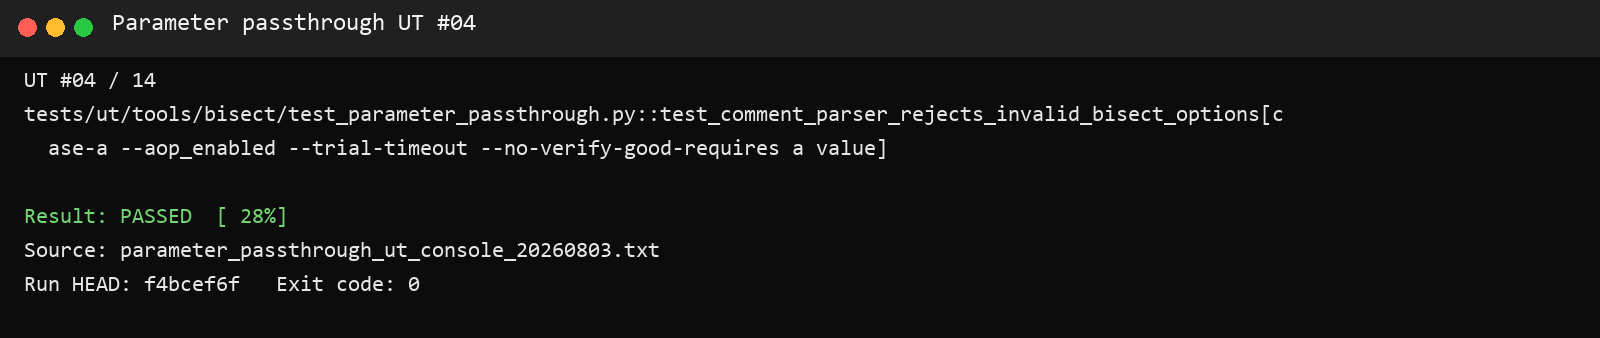
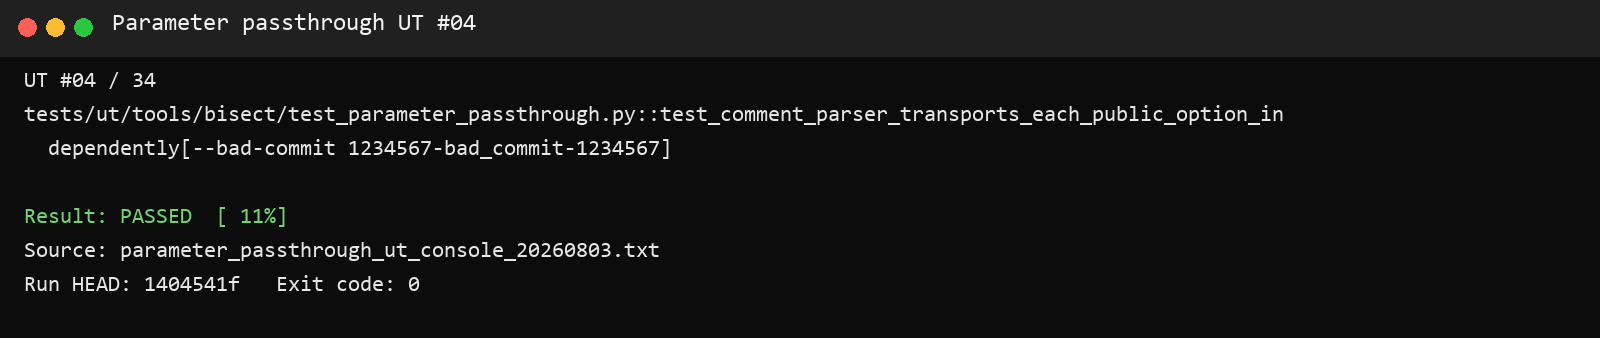
docs(bisect): publish comprehensive passthrough UT report
Document all 34 focused cases with a coverage matrix, production-code execution boundaries, detailed test implementations and assertions, per-case screenshots, summary evidence, and the reproducible console log.

diff --git a/tools/bisect/PARAMETER_PASSTHROUGH_UT_REPORT_zh.md b/tools/bisect/PARAMETER_PASSTHROUGH_UT_REPORT_zh.md
@@ -44,6 +44,45 @@ PR 评论 /nightly 或 /weekly
 3. **最终 CLI 层**：调用真实 `_parse_args`，确认 AOP 参数能转换为 `auto_bisect` 的最终字段和值。
 4. **AOP Shell 执行层**：使用 Git for Windows Bash 真实运行 `aop_process.sh`，以 fake Python 捕获最终 argv，验证参数边界和值没有丢失。
 
+### 2.1 覆盖矩阵
+
+| 功能点 | 默认值 | 独立正向值 | 完整组合 | 非法/边界 | workflow 映射 | Shell argv | argparse |
+|---|---:|---:|---:|---:|---:|---:|---:|
+| `good_commit` | ✓ 空字符串 | ✓ 大写 7 位 SHA | ✓ | ✓ 缺值、非十六进制 | ✓ | ✓ | ✓ |
+| `bad_commit` | ✓ `HEAD` | ✓ 7 位 SHA | ✓ | ✓ 缺值、非 HEAD/SHA | ✓ | ✓ | ✓ |
+| `fail_confirm_retries` | ✓ 空字符串 | ✓ 下边界 0 | ✓ | ✓ 缺值、负数、小数 | ✓ | ✓ | ✓ int |
+| `trial_timeout` | ✓ 空字符串 | ✓ 小数 0.5 | ✓ | ✓ flag 截断、0、负数 | ✓ | ✓ | ✓ number |
+| `barrier_timeout` | ✓ 空字符串 | ✓ 整数 3600 | ✓ | ✓ 缺值、0 | ✓ | ✓ | ✓ number |
+| `no_verify_good` | ✓ false | ✓ true | ✓ | ✓ 作为 pending 截断边界 | ✓ | ✓ | ✓ bool |
+| `no_verify_bad` | ✓ false | ✓ true | ✓ | — flag 无值域 | ✓ | ✓ | ✓ bool |
+| `force_initial_build` | ✓ false | ✓ true | ✓ | — flag 无值域 | ✓ | ✓ | ✓ bool |
+| 普通 nightly/weekly 参数 | 不适用 | ✓ case/branch/a3-560t/glob | ✓ 与二分参数交错 | ✓ AOP 前无 case、错误顺序、未知 option | 不受影响 | 不适用 | 不适用 |
+| 系统管理参数 | 不由用户设置 | 不允许 | 不适用 | ✓ 三项均拒绝 | ✓ 不暴露 | ✓ 系统固定值保留 | ✓ 内部可解析 |
+
+`—` 表示该项没有独立值域：Boolean flag 的合法状态只有“不出现=false”和“出现=true”，两种状态已分别由默认与独立正向用例覆盖。
+
+### 2.2 测试真实性与防止假通过
+
+- 评论解析测试执行从生产 YAML 动态提取的 Bash，不复制解析算法。
+- 正向测试断言完整 JSON key 集合、具体值和 Boolean 类型，不能只凭返回码 0 通过。
+- 反向测试同时断言非零返回码和特定错误信息，不能因无关异常而假通过。
+- 静态协议测试对每个参数、每个工作流入口循环断言，并单独禁止旧的 8 个 dispatch 字段。
+- Shell 测试运行生产脚本；fake Python 只记录 argv，不参与组装或转换。
+- argparse 测试调用生产 `_parse_args`，验证数值和 Boolean 的最终 Python 类型。
+
+### 2.3 “真实执行”与“静态检查”的边界
+
+| 链路段 | 本地 UT 方法 | 是否执行生产代码 |
+|---|---|---:|
+| `/nightly`/`/weekly` 前缀之后的 token 解析 | 提取 workflow 内 Bash 并由 Git Bash 执行 | 是 |
+| `bisect_args_json` 生成 | 同一生产 Bash 生成并用 `json.loads` 校验 | 是 |
+| GitHub workflow_dispatch 网络调用 | 检查真实 YAML 的 `-f bisect_args_json` 契约 | 否，静态检查 |
+| schedule 的 `fromJSON` 到 reusable inputs | 遍历 6 个真实 schedule 文件检查映射 | 否，静态检查 |
+| single/multi-node/LWS 字段存在性 | 遍历真实 workflow、模板和 Shell | 否，静态检查 |
+| `aop_process.sh` 到 Python argv | Bash 真实执行生产 Shell，捕获完整 argv | 是 |
+| `auto_bisect` CLI 类型转换 | 调用生产 `_parse_args` | 是 |
+| GitHub webhook、Pod、NPU case、真实二分构建 | 不属于本地 UT | 否，需 CI/E2E |
+
 ## 3. 执行环境与命令
 
 | 项目 | 值 |
@@ -51,7 +90,7 @@ PR 评论 /nightly 或 /weekly
 | 执行日期 | 2026-08-03（Asia/Shanghai） |
 | 仓库 | `C:\project\tmp\chendao\vllm-ascend` |
 | 分支 | `codex/split-good-table-frequency_ut` |
-| 被测 HEAD | `f4bcef6f` |
+| 被测 HEAD | `1404541f` |
 | 系统 | Windows 11（10.0.26200） |
 | Python | 3.12.13 |
 | pytest | 9.1.1 |
@@ -70,50 +109,70 @@ python -m pytest -vv -p no:cacheprovider `
 执行结果：
 
 ```text
-collected 14 items
-14 passed in 8.50s
+collected 34 items
+34 passed in 19.48s
 ```
 
 原始控制台日志保存在
-[`test_evidence/parameter_passthrough_ut_console_20260803.txt`](./test_evidence/parameter_passthrough_ut_console_20260803.txt)。两张截图均由本次 pytest 原始 stdout 同源生成：第一张保留执行时间、仓库、分支、HEAD、命令、退出码和汇总，第二张展示 14 个 pytest 展开项的逐项结果；截图内容可由原始日志复核。
+[`test_evidence/parameter_passthrough_ut_console_20260803.txt`](./test_evidence/parameter_passthrough_ut_console_20260803.txt)。汇总截图和 34 张逐项截图均由本次 pytest 原始 stdout 同源生成；截图内容可由原始日志复核。
 
 ### 3.1 实际执行步骤
 
-1. 进入 `_ut` 分支仓库并确认被测 HEAD 为 `f4bcef6f`。
+1. 进入 `_ut` 分支仓库并确认被测 HEAD 为 `1404541f`。
 2. 使用 `--confcutdir=tests/ut/tools/bisect` 隔离与本专项无关的顶层 NPU/Torch fixture。
 3. 显式选择 `test_parameter_passthrough.py`，只运行评论解析、默认值、异常校验和跨层协议检查。
 4. 单独选择 `test_parse_args_maps_extended_aop_parameters`，验证透传结束后的真实 argparse 结果。
 5. 单独选择 `test_aop_shell_forwards_complete_bisect_contract`，通过 Git Bash 执行生产 `aop_process.sh`；脚本内部调用 fake Python，记录并断言最终 argv。
-6. pytest 收集 14 个参数化展开项，逐项执行，最终返回码为 0。
+6. pytest 收集 34 个参数化展开项，逐项执行，最终返回码为 0。
 
 执行命令、Python/pytest版本、收集数量和最终结果截图：
 
 ![参数透传专项UT执行命令与汇总](./test_evidence/parameter_passthrough_ut_execution_20260803.png)
 
-14个用例逐项执行结果截图：
+34 个用例逐项执行结果汇总截图：
 
 ![参数透传专项UT逐项结果](./test_evidence/parameter_passthrough_ut_cases_20260803.png)
 
 ## 4. 逐项过程与结果
 
-以下 14 项是 pytest 参数化展开后的实际执行项。每一项均内嵌本次执行产生的独立截图；截图中的 pytest node ID、进度、被测 HEAD 和退出码可与原始控制台日志交叉核对。
+以下 34 项是 pytest 参数化展开后的实际执行项。每一项均内嵌本次执行产生的独立截图；截图中的 pytest node ID、进度、被测 HEAD 和退出码可与原始控制台日志交叉核对。
 
 | # | 测试项 | 测试过程 | 预期结果 | 实际结果与独立截图 |
 |---:|---|---|---|---|
-| 1 | 完整评论参数生成 JSON | 执行生产评论解析脚本，输入 good/bad、重试、两个超时、两个端点开关和首次构建开关 | 8 个字段全部进入 `bisect_args_json`，字符串和 Boolean 类型正确 | PASS<br><img src="./test_evidence/parameter_passthrough_ut_case_01_20260803.png" alt="UT 01 执行截图" width="520"> |
-| 2 | 无可选参数保持默认值 | 输入 `case-a --aop_enabled` | good 为空、bad 为 `HEAD`、可选数字为空、三个 flag 为 `false` | PASS<br><img src="./test_evidence/parameter_passthrough_ut_case_02_20260803.png" alt="UT 02 执行截图" width="520"> |
-| 3 | 二分参数位于 AOP 开关前 | 输入 `case-a --trial-timeout 1 --aop_enabled` | 拒绝并报告参数必须位于 `--aop_enabled` 后 | PASS<br><img src="./test_evidence/parameter_passthrough_ut_case_03_20260803.png" alt="UT 03 执行截图" width="520"> |
-| 4 | 值参数缺值 | 输入 `case-a --aop_enabled --trial-timeout --no-verify-good` | 拒绝并报告 `--trial-timeout requires a value` | PASS<br><img src="./test_evidence/parameter_passthrough_ut_case_04_20260803.png" alt="UT 04 执行截图" width="520"> |
-| 5 | good commit 格式非法 | 输入 `--good-commit xyz` | 拒绝非 7～40 位十六进制 SHA | PASS<br><img src="./test_evidence/parameter_passthrough_ut_case_05_20260803.png" alt="UT 05 执行截图" width="520"> |
-| 6 | retry 为负数 | 输入 `--fail-confirm-retries -1` | 拒绝非负整数以外的值 | PASS<br><img src="./test_evidence/parameter_passthrough_ut_case_06_20260803.png" alt="UT 06 执行截图" width="520"> |
-| 7 | timeout 为零 | 输入 `--trial-timeout 0` | 拒绝非正数 | PASS<br><img src="./test_evidence/parameter_passthrough_ut_case_07_20260803.png" alt="UT 07 执行截图" width="520"> |
-| 8 | 用户传入 `--native-check` | 在评论命令中传内部参数 | 按未知参数拒绝，不进入 JSON | PASS<br><img src="./test_evidence/parameter_passthrough_ut_case_08_20260803.png" alt="UT 08 执行截图" width="520"> |
-| 9 | 用户传入 `--no-assume-built-head` | 在评论命令中传内部参数 | 按未知参数拒绝，不进入 JSON | PASS<br><img src="./test_evidence/parameter_passthrough_ut_case_09_20260803.png" alt="UT 09 执行截图" width="520"> |
-| 10 | 用户传入 `--config-base-path` | 在评论命令中传内部参数 | 按未知参数拒绝，不进入 JSON | PASS<br><img src="./test_evidence/parameter_passthrough_ut_case_10_20260803.png" alt="UT 10 执行截图" width="520"> |
-| 11 | 跨传输层字段契约 | 对 6 个 schedule、5 个 reusable workflow、LWS、Shell 和 argparse 逐字段扫描 | 8 个用户参数在每层均存在，JSON/input/env/CLI 命名映射一致 | PASS<br><img src="./test_evidence/parameter_passthrough_ut_case_11_20260803.png" alt="UT 11 执行截图" width="520"> |
-| 12 | 系统管理参数隔离 | 检查评论协议、JSON、Workflow 和 AOP Shell | 三个内部参数不向用户暴露；native 策略固定，配置路径只由系统传递 | PASS<br><img src="./test_evidence/parameter_passthrough_ut_case_12_20260803.png" alt="UT 12 执行截图" width="520"> |
-| 13 | `auto_bisect` 最终解析 | 直接向真实 `_parse_args` 传递完整 AOP CLI 参数 | 最终 Namespace 中所有参数的值和类型正确 | PASS<br><img src="./test_evidence/parameter_passthrough_ut_case_13_20260803.png" alt="UT 13 执行截图" width="520"> |
-| 14 | AOP Shell 完整透传 | 使用 Git Bash 真实运行 `aop_process.sh`，fake Python 捕获 update-table 与 auto-bisect argv | 用户8参数、good/env table、内部配置路径和固定 native 策略无丢失、无拆词 | PASS<br><img src="./test_evidence/parameter_passthrough_ut_case_14_20260803.png" alt="UT 14 执行截图" width="520"> |
+| 1 | 完整 8 参数生成 JSON | 同时输入全部公开参数 | JSON 字段、值和类型完全相等 | PASS<br><img src="./test_evidence/parameter_passthrough_ut_case_01_20260803.png" alt="UT 01" width="520"> |
+| 2 | 默认值 | 仅输入 `case-a --aop_enabled` | 8 字段完整且保持约定默认值 | PASS<br><img src="./test_evidence/parameter_passthrough_ut_case_02_20260803.png" alt="UT 02" width="520"> |
+| 3 | `good_commit` 独立透传 | 输入大写 7 位 SHA `ABCDEF1` | 保持原值进入 JSON | PASS<br><img src="./test_evidence/parameter_passthrough_ut_case_03_20260803.png" alt="UT 03" width="520"> |
+| 4 | `bad_commit` 独立透传 | 输入 `1234567` | 覆盖默认 `HEAD` | PASS<br><img src="./test_evidence/parameter_passthrough_ut_case_04_20260803.png" alt="UT 04" width="520"> |
+| 5 | retry 下边界 | 输入 `--fail-confirm-retries 0` | 接受非负整数 0 | PASS<br><img src="./test_evidence/parameter_passthrough_ut_case_05_20260803.png" alt="UT 05" width="520"> |
+| 6 | trial timeout 小数 | 输入 `0.5` | 保留小数文本 | PASS<br><img src="./test_evidence/parameter_passthrough_ut_case_06_20260803.png" alt="UT 06" width="520"> |
+| 7 | barrier timeout 整数 | 输入 `3600` | 正确进入 JSON | PASS<br><img src="./test_evidence/parameter_passthrough_ut_case_07_20260803.png" alt="UT 07" width="520"> |
+| 8 | `no_verify_good` | 单独启用 flag | JSON Boolean 为 `true` | PASS<br><img src="./test_evidence/parameter_passthrough_ut_case_08_20260803.png" alt="UT 08" width="520"> |
+| 9 | `no_verify_bad` | 单独启用 flag | JSON Boolean 为 `true` | PASS<br><img src="./test_evidence/parameter_passthrough_ut_case_09_20260803.png" alt="UT 09" width="520"> |
+| 10 | `force_initial_build` | 单独启用 flag | JSON Boolean 为 `true` | PASS<br><img src="./test_evidence/parameter_passthrough_ut_case_10_20260803.png" alt="UT 10" width="520"> |
+| 11 | 与普通参数共存及顺序 | 混合 case、`--branch`、`--a3-560t`、二分参数和 glob | 普通参数不受影响，glob 不展开，二分参数正确 | PASS<br><img src="./test_evidence/parameter_passthrough_ut_case_11_20260803.png" alt="UT 11" width="520"> |
+| 12 | AOP 前无 case | 输入 `--aop_enabled case-a` | 拒绝并说明 AOP 前必须有 case | PASS<br><img src="./test_evidence/parameter_passthrough_ut_case_12_20260803.png" alt="UT 12" width="520"> |
+| 13 | 二分参数位于 AOP 前 | timeout 位于 `--aop_enabled` 前 | 拒绝错误顺序 | PASS<br><img src="./test_evidence/parameter_passthrough_ut_case_13_20260803.png" alt="UT 13" width="520"> |
+| 14 | pending 值被 flag 截断 | timeout 后直接跟 flag | 报告 requires a value | PASS<br><img src="./test_evidence/parameter_passthrough_ut_case_14_20260803.png" alt="UT 14" width="520"> |
+| 15 | good commit 输入结束缺值 | 命令以 `--good-commit` 结束 | 报告 requires a value | PASS<br><img src="./test_evidence/parameter_passthrough_ut_case_15_20260803.png" alt="UT 15" width="520"> |
+| 16 | bad commit 输入结束缺值 | 命令以 `--bad-commit` 结束 | 报告 requires a value | PASS<br><img src="./test_evidence/parameter_passthrough_ut_case_16_20260803.png" alt="UT 16" width="520"> |
+| 17 | retry 输入结束缺值 | 命令以 retry option 结束 | 报告 requires a value | PASS<br><img src="./test_evidence/parameter_passthrough_ut_case_17_20260803.png" alt="UT 17" width="520"> |
+| 18 | barrier timeout 输入结束缺值 | 命令以 barrier option 结束 | 报告 requires a value | PASS<br><img src="./test_evidence/parameter_passthrough_ut_case_18_20260803.png" alt="UT 18" width="520"> |
+| 19 | good SHA 非法 | 输入 `xyz` | 拒绝非 7～40 位十六进制 | PASS<br><img src="./test_evidence/parameter_passthrough_ut_case_19_20260803.png" alt="UT 19" width="520"> |
+| 20 | bad SHA 非法 | 输入 `xyz` | 拒绝非 `HEAD`/SHA | PASS<br><img src="./test_evidence/parameter_passthrough_ut_case_20_20260803.png" alt="UT 20" width="520"> |
+| 21 | retry 负数 | 输入 `-1` | 拒绝负数 | PASS<br><img src="./test_evidence/parameter_passthrough_ut_case_21_20260803.png" alt="UT 21" width="520"> |
+| 22 | retry 小数 | 输入 `1.5` | 拒绝非整数 | PASS<br><img src="./test_evidence/parameter_passthrough_ut_case_22_20260803.png" alt="UT 22" width="520"> |
+| 23 | trial timeout 为零 | 输入 `0` | 拒绝非正数 | PASS<br><img src="./test_evidence/parameter_passthrough_ut_case_23_20260803.png" alt="UT 23" width="520"> |
+| 24 | trial timeout 负数 | 输入 `-1` | 拒绝非正数 | PASS<br><img src="./test_evidence/parameter_passthrough_ut_case_24_20260803.png" alt="UT 24" width="520"> |
+| 25 | barrier timeout 为零 | 输入 `0` | 拒绝非正数 | PASS<br><img src="./test_evidence/parameter_passthrough_ut_case_25_20260803.png" alt="UT 25" width="520"> |
+| 26 | 未知 option | 输入 `--unknown-option` | 明确拒绝未知 option | PASS<br><img src="./test_evidence/parameter_passthrough_ut_case_26_20260803.png" alt="UT 26" width="520"> |
+| 27 | `native-check` 不暴露 | 从评论传入内部参数 | 按未知参数拒绝 | PASS<br><img src="./test_evidence/parameter_passthrough_ut_case_27_20260803.png" alt="UT 27" width="520"> |
+| 28 | `no-assume-built-head` 不暴露 | 从评论传入内部参数 | 按未知参数拒绝 | PASS<br><img src="./test_evidence/parameter_passthrough_ut_case_28_20260803.png" alt="UT 28" width="520"> |
+| 29 | `config-base-path` 不暴露 | 从评论传入内部参数 | 按未知参数拒绝 | PASS<br><img src="./test_evidence/parameter_passthrough_ut_case_29_20260803.png" alt="UT 29" width="520"> |
+| 30 | 跨层字段契约 | 扫描全部 schedule/reusable/LWS/Shell/argparse | 8 参数逐层存在且命名一致 | PASS<br><img src="./test_evidence/parameter_passthrough_ut_case_30_20260803.png" alt="UT 30" width="520"> |
+| 31 | 单 JSON dispatch 协议 | 检查评论工作流和 6 个 schedule | dispatch 只传一个 JSON；schedule 全部解包 | PASS<br><img src="./test_evidence/parameter_passthrough_ut_case_31_20260803.png" alt="UT 31" width="520"> |
+| 32 | 内部参数隔离与系统固定策略 | 同时做不存在与必须存在断言 | 用户入口不暴露，Shell 固定策略保留 | PASS<br><img src="./test_evidence/parameter_passthrough_ut_case_32_20260803.png" alt="UT 32" width="520"> |
+| 33 | 最终 argparse | 调用真实 `_parse_args` | 最终值和 Python 类型正确 | PASS<br><img src="./test_evidence/parameter_passthrough_ut_case_33_20260803.png" alt="UT 33" width="520"> |
+| 34 | AOP Shell 完整 argv | 执行真实 `aop_process.sh` | 完整 argv 顺序和值精确匹配 | PASS<br><img src="./test_evidence/parameter_passthrough_ut_case_34_20260803.png" alt="UT 34" width="520"> |
 
 ### 4.1 UT 实现代码与逻辑审查
 
@@ -123,7 +182,7 @@ collected 14 items
 - `tests/ut/tools/bisect/test_auto_bisect.py`
 - `tests/ut/tools/bisect/test_aop_shell_chain.py`
 
-#### 4.1.1 生产解析器调用方式（用例 1～10 的公共前置逻辑）
+#### 4.1.1 生产解析器调用方式（用例 1～29 的公共前置逻辑）
 
 ```python
 def _parser_script() -> str:
@@ -197,17 +256,70 @@ def test_comment_parser_preserves_transport_defaults(tmp_path: Path):
 
 逻辑审查：用例 1 同时断言 case、AOP 开关以及 JSON 中全部 8 个字段和值/类型；用例 2 在不传可选参数时断言完整默认对象，能够发现字段遗漏、默认值漂移以及 Boolean 被错误编码成字符串的问题。
 
-#### 4.1.3 非法参数和内部参数隔离（用例 3～10）
+#### 4.1.3 八个公开参数逐个独立验证及普通参数共存（用例 3～11）
+
+```python
+@pytest.mark.parametrize(
+    ("comment_arg", "json_key", "expected"),
+    [
+        ("--good-commit ABCDEF1", "good_commit", "ABCDEF1"),
+        ("--bad-commit 1234567", "bad_commit", "1234567"),
+        ("--fail-confirm-retries 0", "fail_confirm_retries", "0"),
+        ("--trial-timeout 0.5", "trial_timeout", "0.5"),
+        ("--barrier-timeout 3600", "barrier_timeout", "3600"),
+        ("--no-verify-good", "no_verify_good", True),
+        ("--no-verify-bad", "no_verify_bad", True),
+        ("--force-initial-build", "force_initial_build", True),
+    ],
+)
+def test_comment_parser_transports_each_public_option_independently(
+    tmp_path, comment_arg, json_key, expected
+):
+    result = _run_parser(tmp_path, f"case-a --aop_enabled {comment_arg}")
+    assert result.returncode == 0, result.stderr or result.stdout
+    payload = json.loads(_outputs(tmp_path)["bisect_args_json"])
+    assert set(payload) == set(PARAMETERS)
+    assert payload[json_key] == expected
+
+
+def test_comment_parser_keeps_normal_arguments_and_literal_globs(tmp_path):
+    result = _run_parser(
+        tmp_path,
+        "case-a case-* --branch feature/test --a3-560t --aop_enabled "
+        "--trial-timeout 30 case-b --no-verify-good",
+    )
+    assert result.returncode == 0, result.stderr or result.stdout
+    outputs = _outputs(tmp_path)
+    assert outputs["test_cases"] == "case-a,case-*,case-b"
+    assert outputs["branch"] == "feature/test"
+    payload = json.loads(outputs["bisect_args_json"])
+    assert payload["trial_timeout"] == "30"
+    assert payload["no_verify_good"] is True
+```
+
+逻辑审查：完整参数用例之外，再逐个验证 8 个公开参数，可以精确定位单字段映射错误。每次都断言 JSON key 集合完整，避免单参数正确但其他默认字段被意外删除。共存用例验证普通 case、branch、硬件 flag、二分参数交错排列不会互相吞并，并验证 `set -f` 确实保留 `case-*` 字面量。
+
+#### 4.1.4 非法参数和内部参数隔离（用例 12～29）
 
 ```python
 @pytest.mark.parametrize(
     ("all_args", "message"),
     [
+        ("--aop_enabled case-a", "must appear after at least one test case"),
         ("case-a --trial-timeout 1 --aop_enabled", "must appear after --aop_enabled"),
         ("case-a --aop_enabled --trial-timeout --no-verify-good", "requires a value"),
+        ("case-a --aop_enabled --good-commit", "requires a value"),
+        ("case-a --aop_enabled --bad-commit", "requires a value"),
+        ("case-a --aop_enabled --fail-confirm-retries", "requires a value"),
+        ("case-a --aop_enabled --barrier-timeout", "requires a value"),
         ("case-a --aop_enabled --good-commit xyz", "7-40 character hexadecimal"),
+        ("case-a --aop_enabled --bad-commit xyz", "HEAD or a 7-40 character hexadecimal"),
         ("case-a --aop_enabled --fail-confirm-retries -1", "non-negative integer"),
+        ("case-a --aop_enabled --fail-confirm-retries 1.5", "non-negative integer"),
         ("case-a --aop_enabled --trial-timeout 0", "positive numbers"),
+        ("case-a --aop_enabled --trial-timeout -1", "positive numbers"),
+        ("case-a --aop_enabled --barrier-timeout 0", "positive numbers"),
+        ("case-a --aop_enabled --unknown-option", "unknown option"),
         ("case-a --aop_enabled --native-check since-build", "unknown option"),
         ("case-a --aop_enabled --no-assume-built-head", "unknown option"),
         (
@@ -225,9 +337,9 @@ def test_comment_parser_rejects_invalid_bisect_options(
     assert message in result.stdout
 ```
 
-逻辑审查：每个参数化项不仅要求失败，还断言对应错误原因，避免“因为其他异常碰巧失败”造成假通过。用例 8～10 明确证明三个系统管理参数不能从用户评论入口传入。
+逻辑审查：18 个参数化项覆盖顺序、无 case、option 后缺值、SHA、整数、小数、正数和未知/内部参数。每项不仅要求失败，还断言对应错误原因，避免“因为其他异常碰巧失败”造成假通过。用例 27～29 明确证明三个系统管理参数不能从用户评论入口传入。
 
-#### 4.1.4 跨层字段契约（用例 11）
+#### 4.1.5 跨层字段契约（用例 30）
 
 ```python
 for json_key, (input_name, env_name, cli_name) in PARAMETERS.items():
@@ -255,7 +367,26 @@ for template_name in ("lws.yaml.jinja2", "lws_560t.yaml.jinja2"):
 
 逻辑审查：该用例逐个遍历 8 个参数，覆盖 6 个 schedule workflow、5 个 reusable workflow、两份 LWS 模板、single-node Shell、multi-node Shell 和 `auto_bisect` CLI。任一层字段遗漏或命名不一致都会触发断言。
 
-#### 4.1.5 系统管理参数不对用户暴露（用例 12）
+#### 4.1.6 单 JSON workflow dispatch 协议（用例 31）
+
+```python
+assert "bisect_args_json: ${{ steps.resolve.outputs.bisect_args_json }}" in command_text
+assert command_text.count('-f bisect_args_json="$BISECT_ARGS_JSON"') == 6
+for input_name, _env_name, _cli_name in PARAMETERS.values():
+    assert f"-f {input_name}=" not in command_text
+
+for workflow_name in SCHEDULE_WORKFLOWS:
+    schedule = (workflows / workflow_name).read_text(encoding="utf-8")
+    assert schedule.count("bisect_args_json:") == 1
+    assert "fromJSON(inputs.bisect_args_json || '{}')" in schedule
+    for json_key, (input_name, _env_name, _cli_name) in PARAMETERS.items():
+        assert input_name in schedule
+        assert json_key in schedule
+```
+
+逻辑审查：该用例专门防止 workflow_dispatch 输入数量再次超限。它要求评论工作流的 6 个 dispatch 命令各自只发送一个 `bisect_args_json`，禁止恢复 8 个独立 `-f` 字段，并要求 6 个 schedule workflow 都通过 `fromJSON` 解包。
+
+#### 4.1.7 系统管理参数不对用户暴露（用例 32）
 
 ```python
 assert "native_check" not in command_text
@@ -282,7 +413,7 @@ assert "--config-base-path" in multi_shell
 
 逻辑审查：既检查用户入口和 workflow 不存在内部参数，也检查 Shell 中的系统固定策略仍然存在，避免简单删除全部相关代码也让测试通过。
 
-#### 4.1.6 最终 argparse 映射（用例 13）
+#### 4.1.8 最终 argparse 映射（用例 33）
 
 ```python
 args = _parse_args(
@@ -308,7 +439,7 @@ assert args.force_initial_build is True
 
 逻辑审查：直接调用生产 `tools.bisect.auto_bisect._parse_args`，验证传输末端的字段名、数值转换和 flag 类型，而不是只搜索源码字符串。
 
-#### 4.1.7 真实 AOP Shell argv（用例 14）
+#### 4.1.9 真实 AOP Shell argv（用例 34）
 
 ```python
 subprocess.run(
@@ -349,7 +480,7 @@ assert [line.removeprefix("ARG=") for line in calls[1]] == [
 
 ## 5. 结论
 
-本次参数透传专项 UT 共 14 项，14 项全部通过。仓库内可控链路已经验证：
+本次参数透传专项 UT 共 34 项，34 项全部通过。仓库内可控链路已经验证：
 
 - 评论层能正确解析、校验和拒绝非法参数；
 - 不传新增参数时保持约定默认值；
